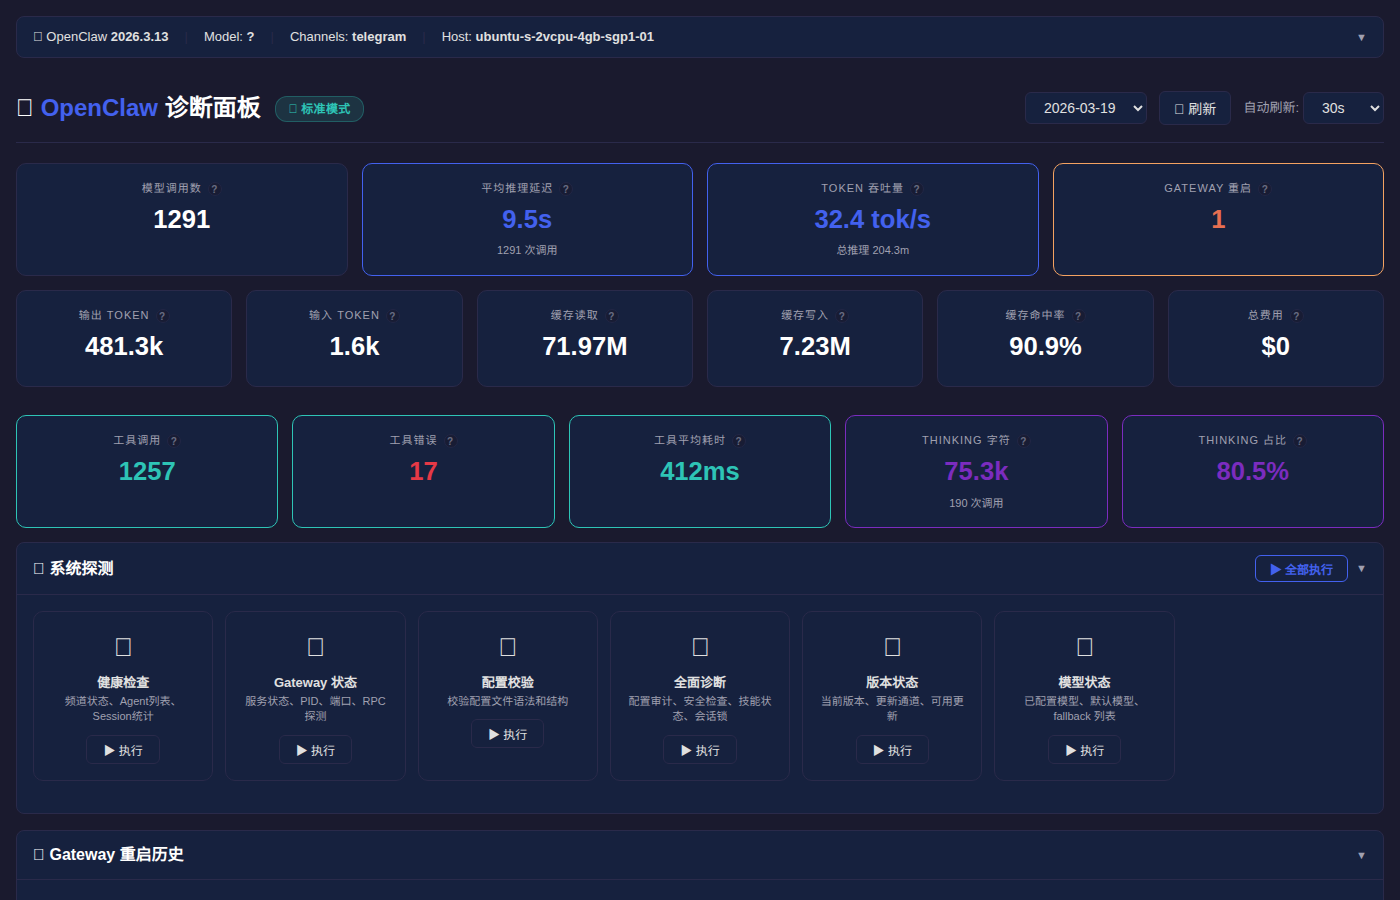
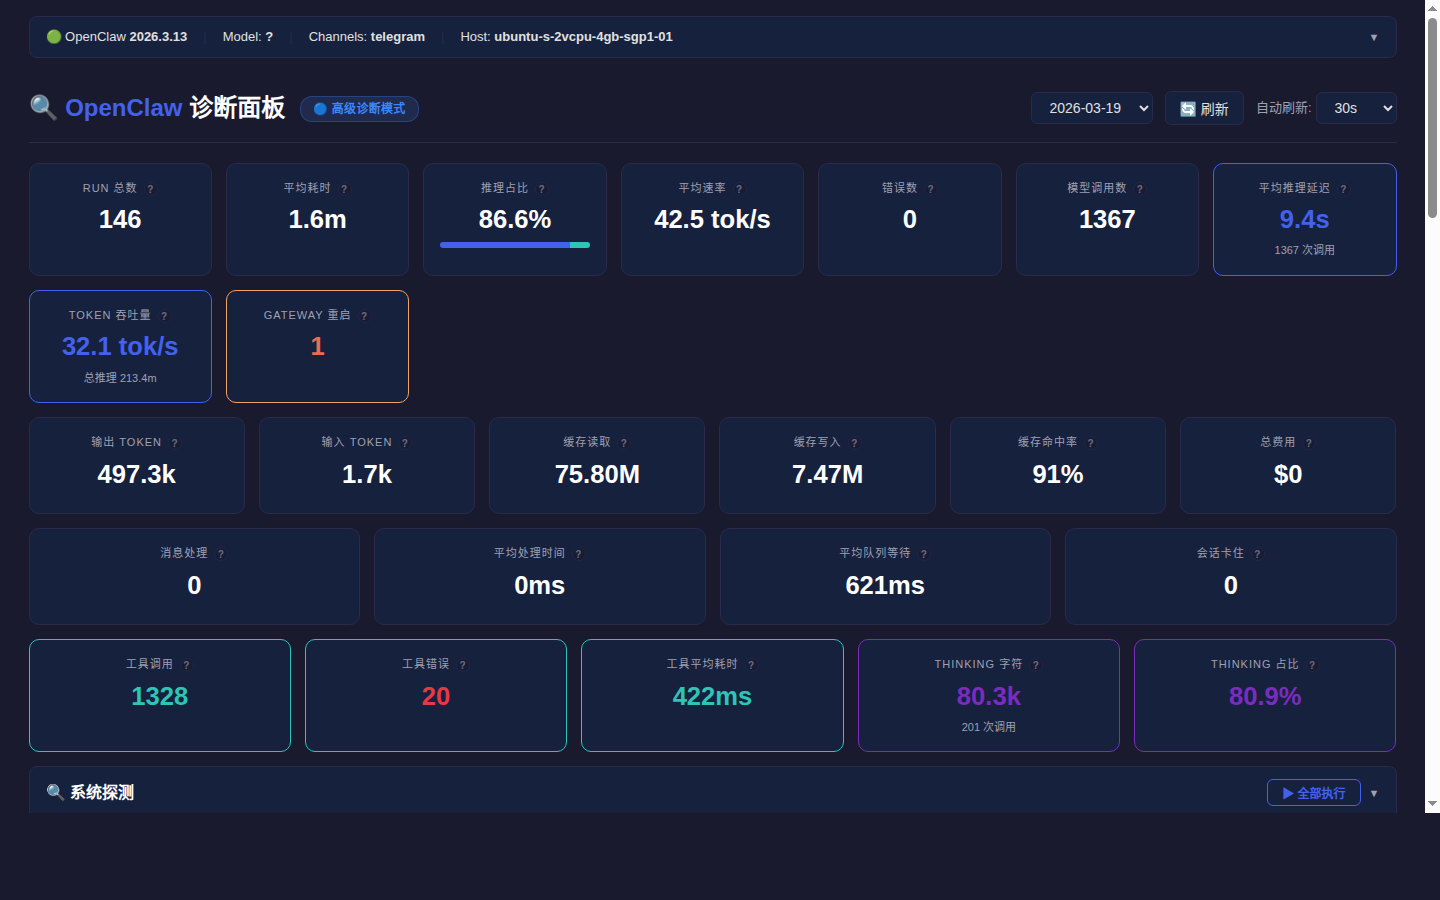
docs: 更新截图(3张高清)，清理旧截图，同步README中英文

diff --git a/README.md b/README.md
@@ -6,29 +6,23 @@ A web-based performance diagnostic tool for the [OpenClaw](https://github.com/ni
 
 ## 📸 Screenshots
 
-### Standard Mode — KPI Overview
+### Dashboard Overview — KPI & System Probes
 
 ![Dashboard Overview](docs/screenshots/dashboard-overview.png)
 
-*3 rows of KPI cards: core metrics (model calls, inference latency, token throughput, cache hit ratio), token details, and tool/thinking stats. Probe panel with 6 one-click diagnostics.*
+*5 rows of KPI cards: core metrics (run count, inference ratio, token throughput), token details, message pipeline, and tool/thinking stats. System probe panel with 6 one-click diagnostics.*
 
-### Standard Mode — Gateway & Session Browser
+### Standard Mode — Full Page
 
-![Dashboard Details](docs/screenshots/dashboard-tools.png)
+![Dashboard Standard](docs/screenshots/dashboard-standard.png)
 
-*Gateway restart history with event type detection, model call records, and session browser. Standard mode requires zero configuration.*
+*Complete standard mode view: KPI overview → system probes → Gateway restart history → model call records → session browser → error tracking. Zero configuration needed.*
 
-### System Probes
-
-![Dashboard Probes](docs/screenshots/dashboard-probes.png)
-
-*6 built-in probes (health, gateway status, config validate, full doctor, update status, models status) with live execution status and one-click "Run All".*
-
-### Advanced Mode — Full Diagnostics
+### Advanced Mode — Full Page
 
 ![Dashboard Advanced](docs/screenshots/dashboard-advanced.png)
 
-*Advanced mode adds run-level KPIs (run count, avg duration, inference ratio, message pipeline stats) on top of all standard mode features.*
+*Advanced mode adds run-level details, event timeline, and debug log analysis on top of all standard mode features.*
 
 ### CLI Mode
 

diff --git a/README_zh.md b/README_zh.md
@@ -6,29 +6,23 @@
 
 ## 📸 效果展示
 
-### 标准模式 — KPI 概览
+### Dashboard 概览 — KPI 与系统探测
 
 ![Dashboard Overview](docs/screenshots/dashboard-overview.png)
 
-*3 行 KPI 卡片：核心指标（模型调用数、推理延迟、Token 吞吐量、缓存命中率）、Token 详情、工具与 Thinking 统计。下方为 6 项系统探测面板。*
+*5 行 KPI 卡片：核心指标（Run 总数、推理占比、Token 吞吐量）、Token 详情、消息流水线、工具与 Thinking 统计。下方为 6 项系统探测面板。*
 
-### 标准模式 — Gateway 与会话浏览
+### 标准模式 — 完整页面
 
-![Dashboard Details](docs/screenshots/dashboard-tools.png)
+![Dashboard Standard](docs/screenshots/dashboard-standard.png)
 
-*Gateway 重启历史（事件类型检测）、模型调用记录、会话浏览器。标准模式零配置即可使用。*
+*标准模式完整视图：KPI 概览 → 系统探测 → Gateway 重启历史 → 模型调用记录 → 会话浏览器 → 错误追踪。零配置即可使用。*
 
-### 系统探测面板
-
-![Dashboard Probes](docs/screenshots/dashboard-probes.png)
-
-*6 项内置探测（健康检查、Gateway 状态、配置校验、全面诊断、版本状态、模型状态），支持一键全部执行，实时显示执行状态。*
-
-### 高级诊断模式
+### 高级诊断模式 — 完整页面
 
 ![Dashboard Advanced](docs/screenshots/dashboard-advanced.png)
 
-*高级模式在标准模式基础上，额外提供 Run 级别 KPI（Run 总数、平均耗时、推理占比、消息流水线统计）。*
+*高级模式在标准模式基础上，额外提供 Run 级别详情、事件时间线和调试日志分析。*
 
 ### CLI 命令行模式
 
